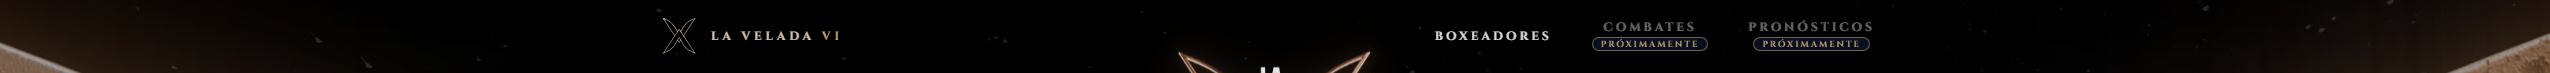
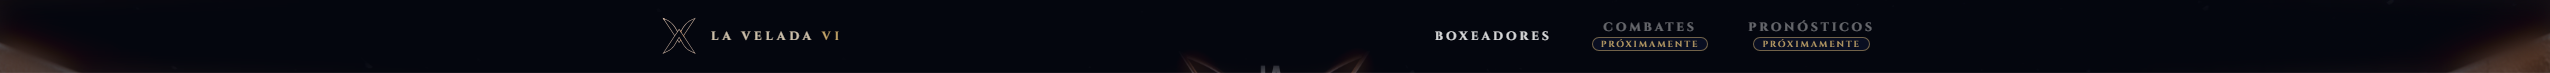
fix(header): restore frosted scroll bar with native backdrop classes
Drop custom frost utilities; use backdrop-blur with saturate/contrast on the
same node. Fix data-scrolled=true for Tailwind variants and add e2e guard.

diff --git a/e2e/header-nav-alignment.spec.ts b/e2e/header-nav-alignment.spec.ts
@@ -46,6 +46,15 @@ test.describe('header desktop nav alignment', () => {
     expect(Math.abs(centerY(boxeadoresBox!) - blockCenter)).toBeLessThanOrEqual(TOL)
   })
 
+  test('scrolled header keeps frosted backdrop', async ({ page }) => {
+    await page.evaluate(() => window.scrollTo(0, 80))
+    await page.waitForTimeout(300)
+    await expect(page.locator('[data-header]')).toHaveAttribute('data-scrolled', 'true')
+    const filter = await page.locator('[data-header]').evaluate((el) => getComputedStyle(el).backdropFilter)
+    expect(filter).toMatch(/blur/)
+    expect(filter).toMatch(/saturate/)
+  })
+
   test('logo row is vertically centered with the full nav block', async ({ page }) => {
     const logoBox = await page.getByRole('link', { name: /la velada del año vi/i }).boundingBox()
     const navBox = await page.getByTestId('header-nav').boundingBox()

diff --git a/src/styles/global.css b/src/styles/global.css
@@ -278,7 +278,3 @@ html {
 @utility mask-fade-bottom-quick {
   mask-image: linear-gradient(to bottom, black 95%, transparent 100%);
 }
-
-@utility backdrop-frost {
-  @apply backdrop-saturate-150 backdrop-contrast-125;
-}

diff --git a/docs/pr/nav-patch/PR_BODY.md b/docs/pr/nav-patch/PR_BODY.md
@@ -32,7 +32,7 @@ After only: 6px underline gap, 150ms + 125ms delay; mobile menu has no underline
 
 ## Blur / glass
 
-`backdrop-blur-*` per surface + shared `backdrop-frost` utility (`saturate 1.5`, `contrast 1.25`) in `global.css`.
+`backdrop-blur-*` + `backdrop-saturate-150 backdrop-contrast-125` on the same node (Header DRY via `frost` const).
 
 ## Test plan
 
